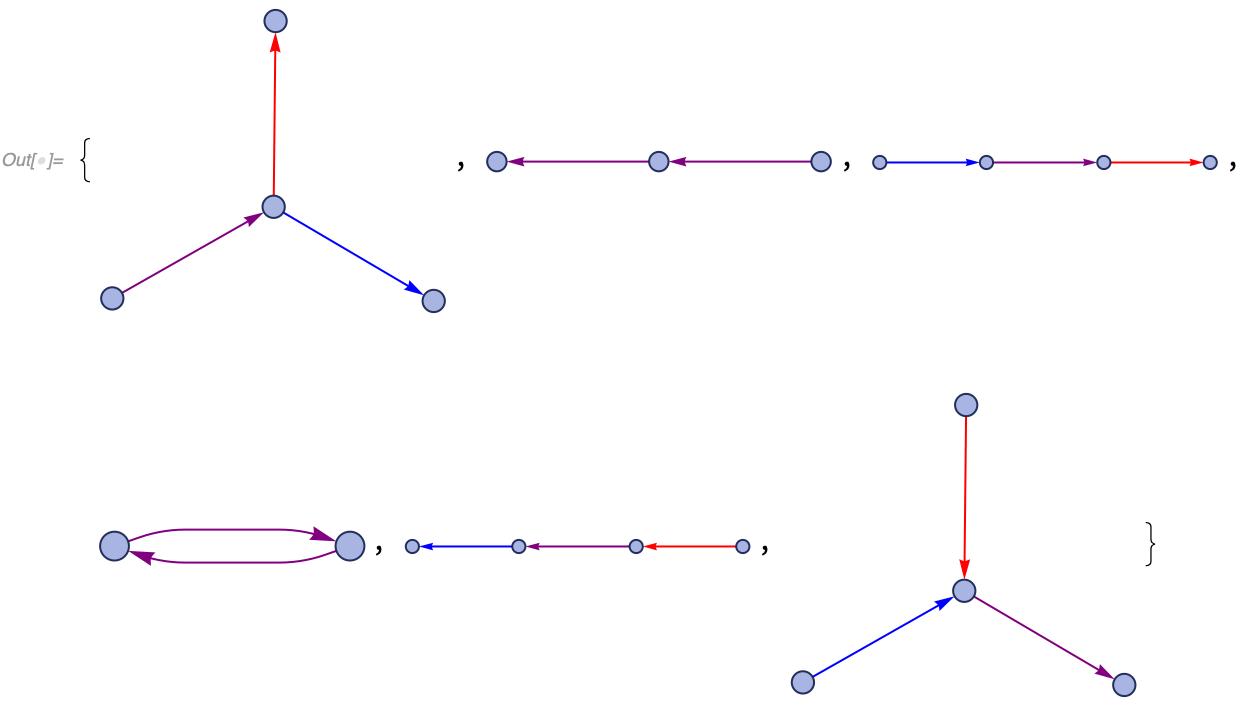
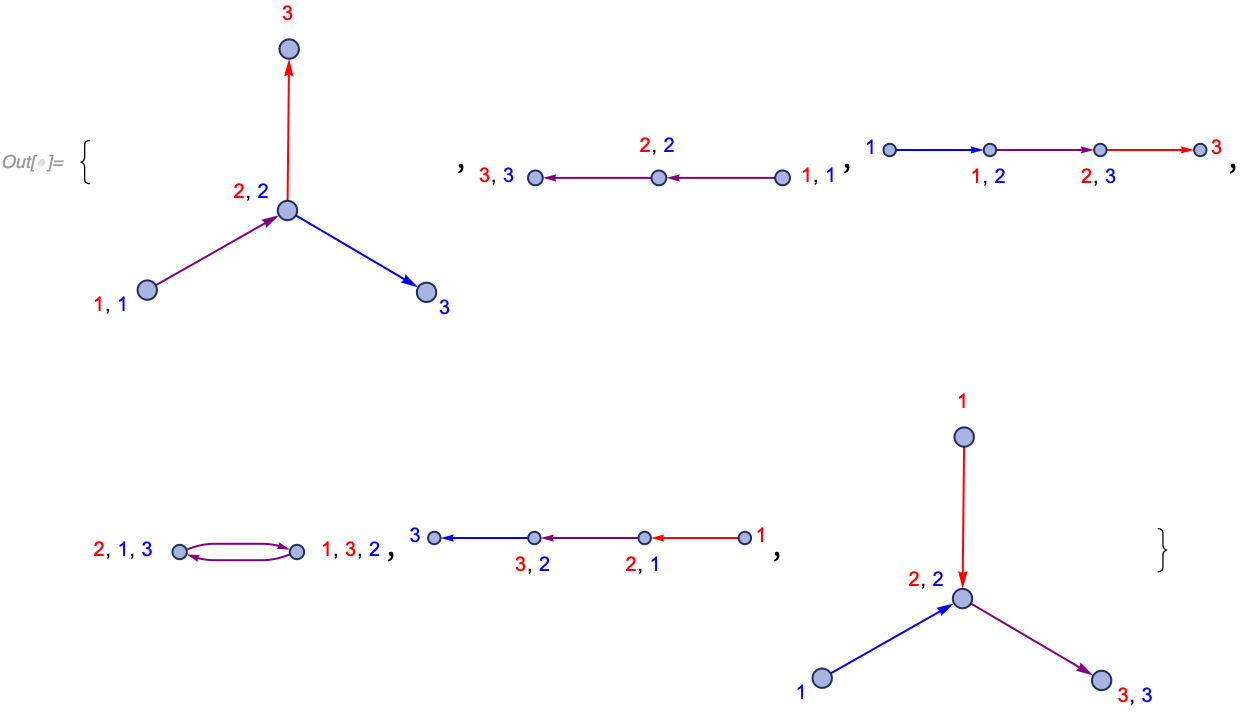
Document HypergraphUnificationsPlot.

diff --git a/README.md b/README.md
@@ -1823,29 +1823,21 @@ Out[] = {{{{3, 1}, {3, 4}, {2, 3}}, <|1 -> 3, 2 -> 1|>, <|1 -> 3, 2 -> 2|>},
 
 In the first output here `{{{3, 1}, {3, 4}, {2, 3}}, <|1 -> 3, 2 -> 1|>, <|1 -> 3, 2 -> 2|>}`, the graphs are overlapping by a shared edge `{2, 3}`, and two inputs are matched respectively to `{{2, 3}, {3, 1}}` and `{{2, 3}, {3, 4}}`.
 
-All unifications can be visualized by coloring shared edges in purple, edges mapped to only the first argument in red, and the second argument in blue:
+All unifications can be visualized with **`HypergraphUnificationsPlot`**:
 
 ```
-In[] := WolframModelPlot[#,
-   EdgeStyle ->
-    ReplacePart[Table[Automatic, Length[#]],
-     Join[Thread[Intersection[Values[#2], Values[#3]] -> Purple],
-      Thread[Values[#2] -> Red], Thread[Values[#3] -> Blue]]]] & @@@
- HypergraphUnifications[{{1, 2}, {2, 3}}, {{1, 2}, {2, 3}}]
+In[] := HypergraphUnificationsPlot[{{1, 2}, {2, 3}}, {{1, 2}, {2, 3}}]
 ```
 
 <img src="READMEImages/HypergraphUnificationsPlot.png" width="745">
 
+Vertex labels here show the vertex names in the input graphs to which the unification is matched.
+
 A more complicated example with edges of various arities is
 
 ```
-In[] := WolframModelPlot[#,
-   EdgeStyle ->
-    ReplacePart[Table[Automatic, Length[#]],
-     Join[Thread[Intersection[Values[#2], Values[#3]] -> Purple],
-      Thread[Values[#2] -> Red], Thread[Values[#3] -> Blue]]]] & @@@
- HypergraphUnifications[{{1, 2, 3}, {4, 5, 6}, {1, 4}}, {{1, 2, 3}, {4, 5,
-     6}, {1, 4}}]
+In[] := HypergraphUnificationsPlot[{{1, 2, 3}, {4, 5, 6}, {1, 4}},
+ {{1, 2, 3}, {4, 5, 6}, {1, 4}}, VertexLabels -> Automatic]
 ```
 
 <img src="READMEImages/HypergraphUnificationsPlotWithMultipleArities.png" width="746">
